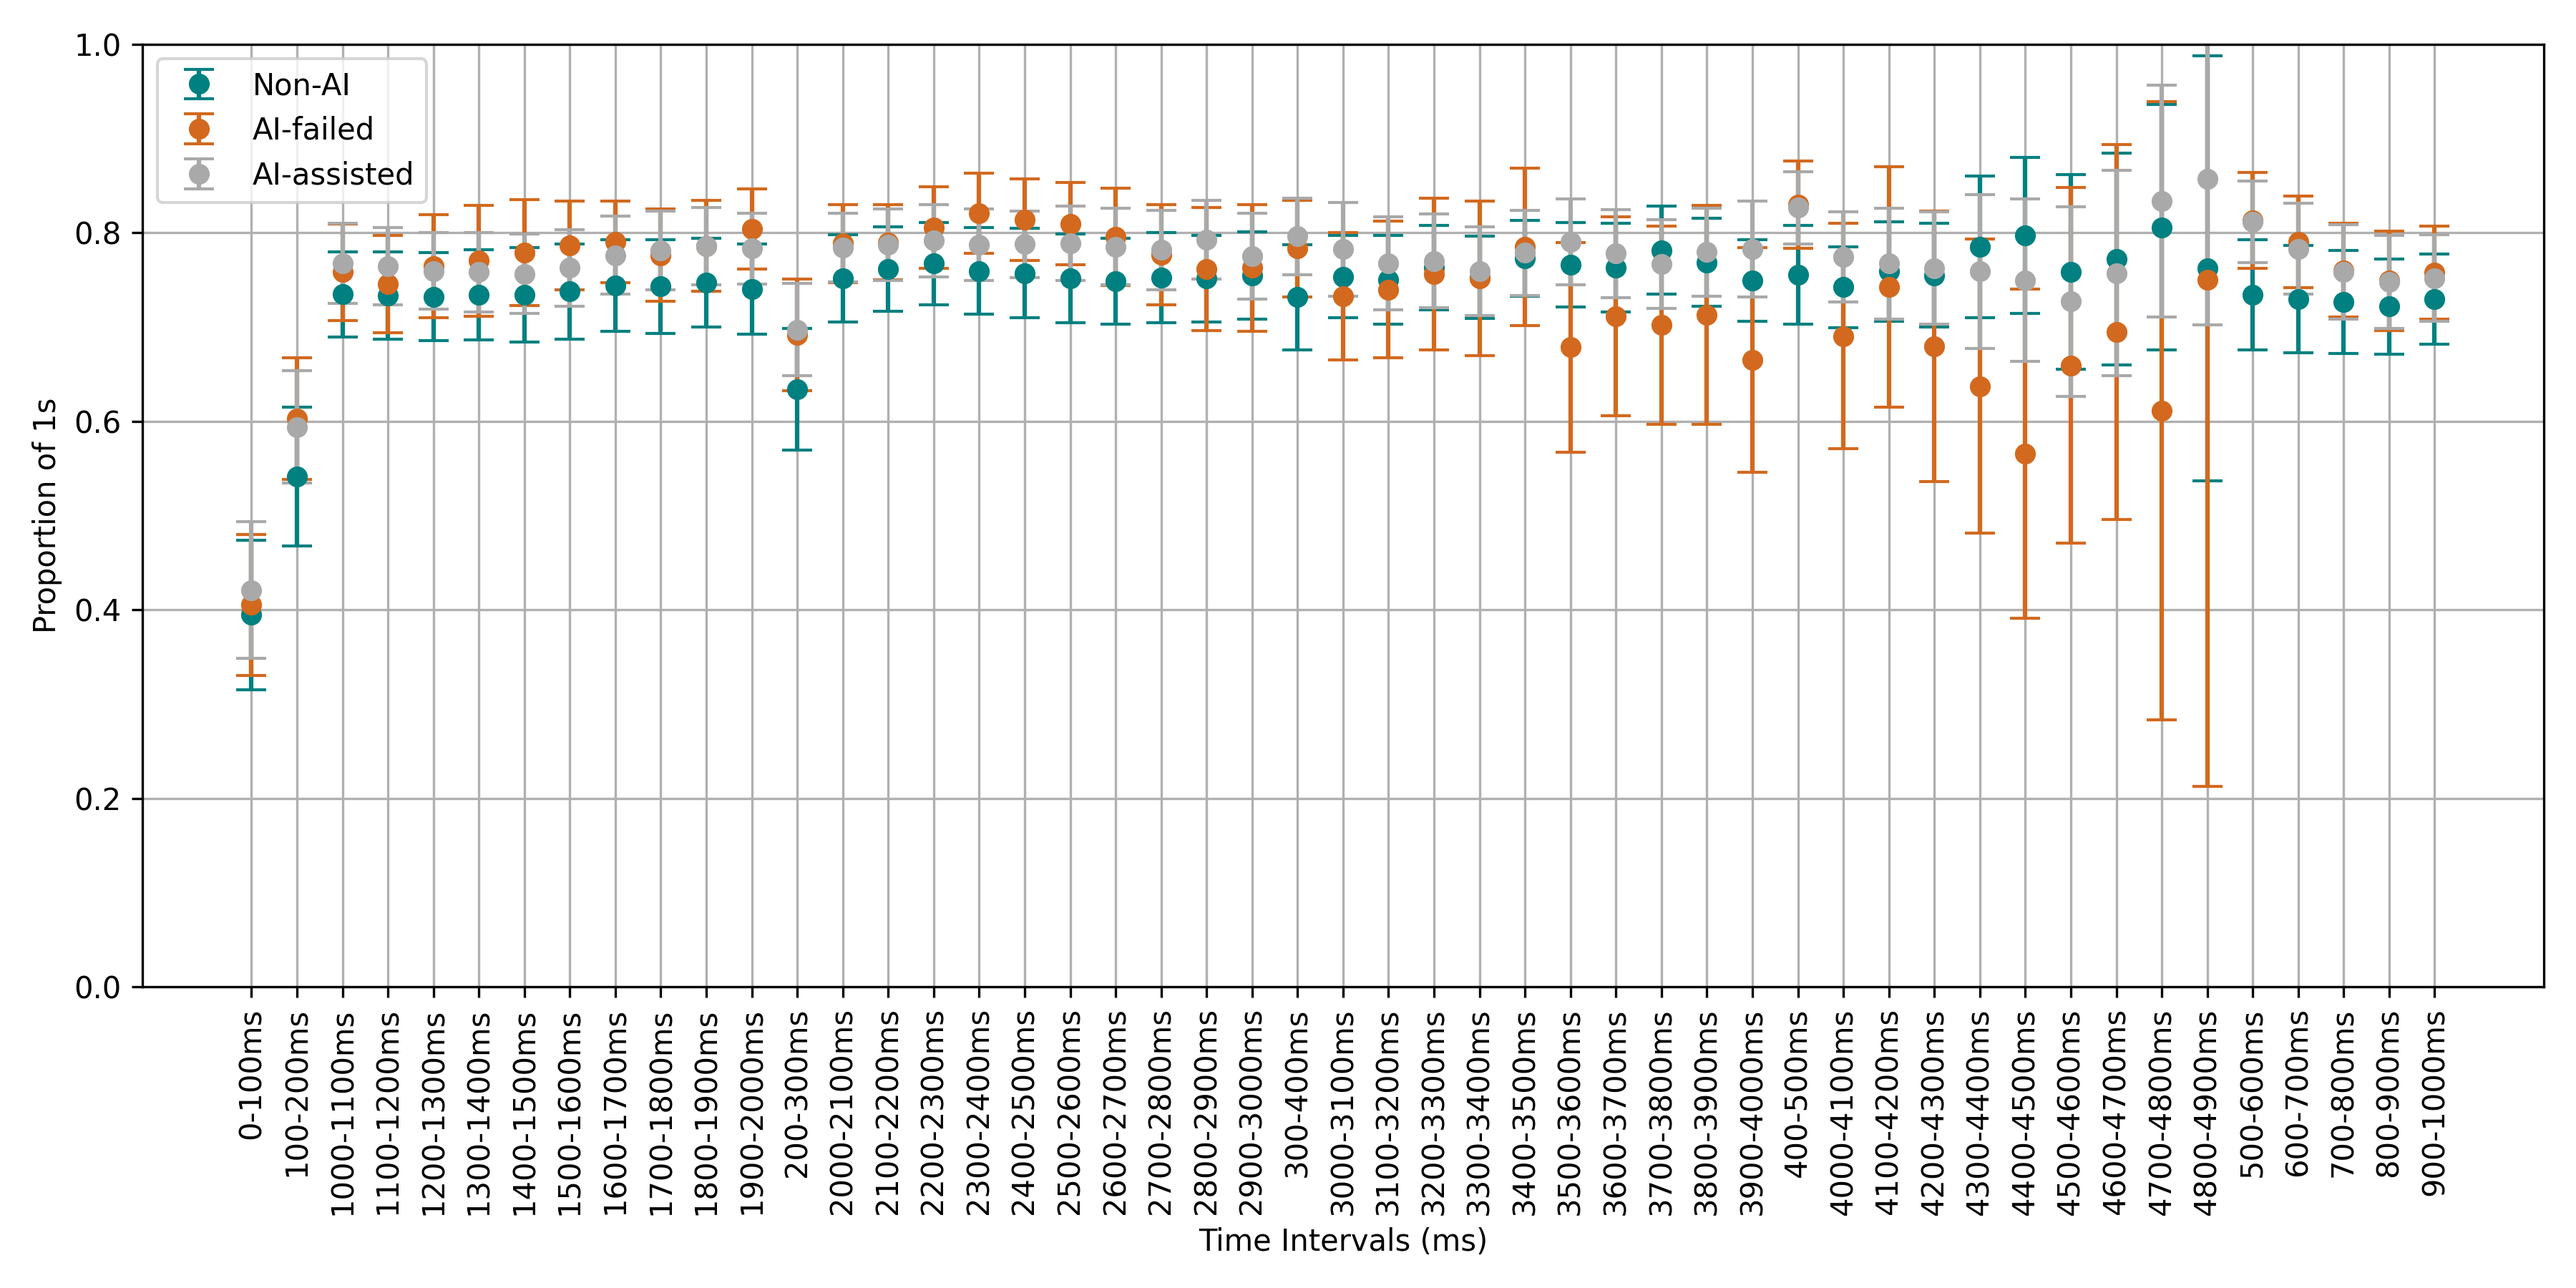
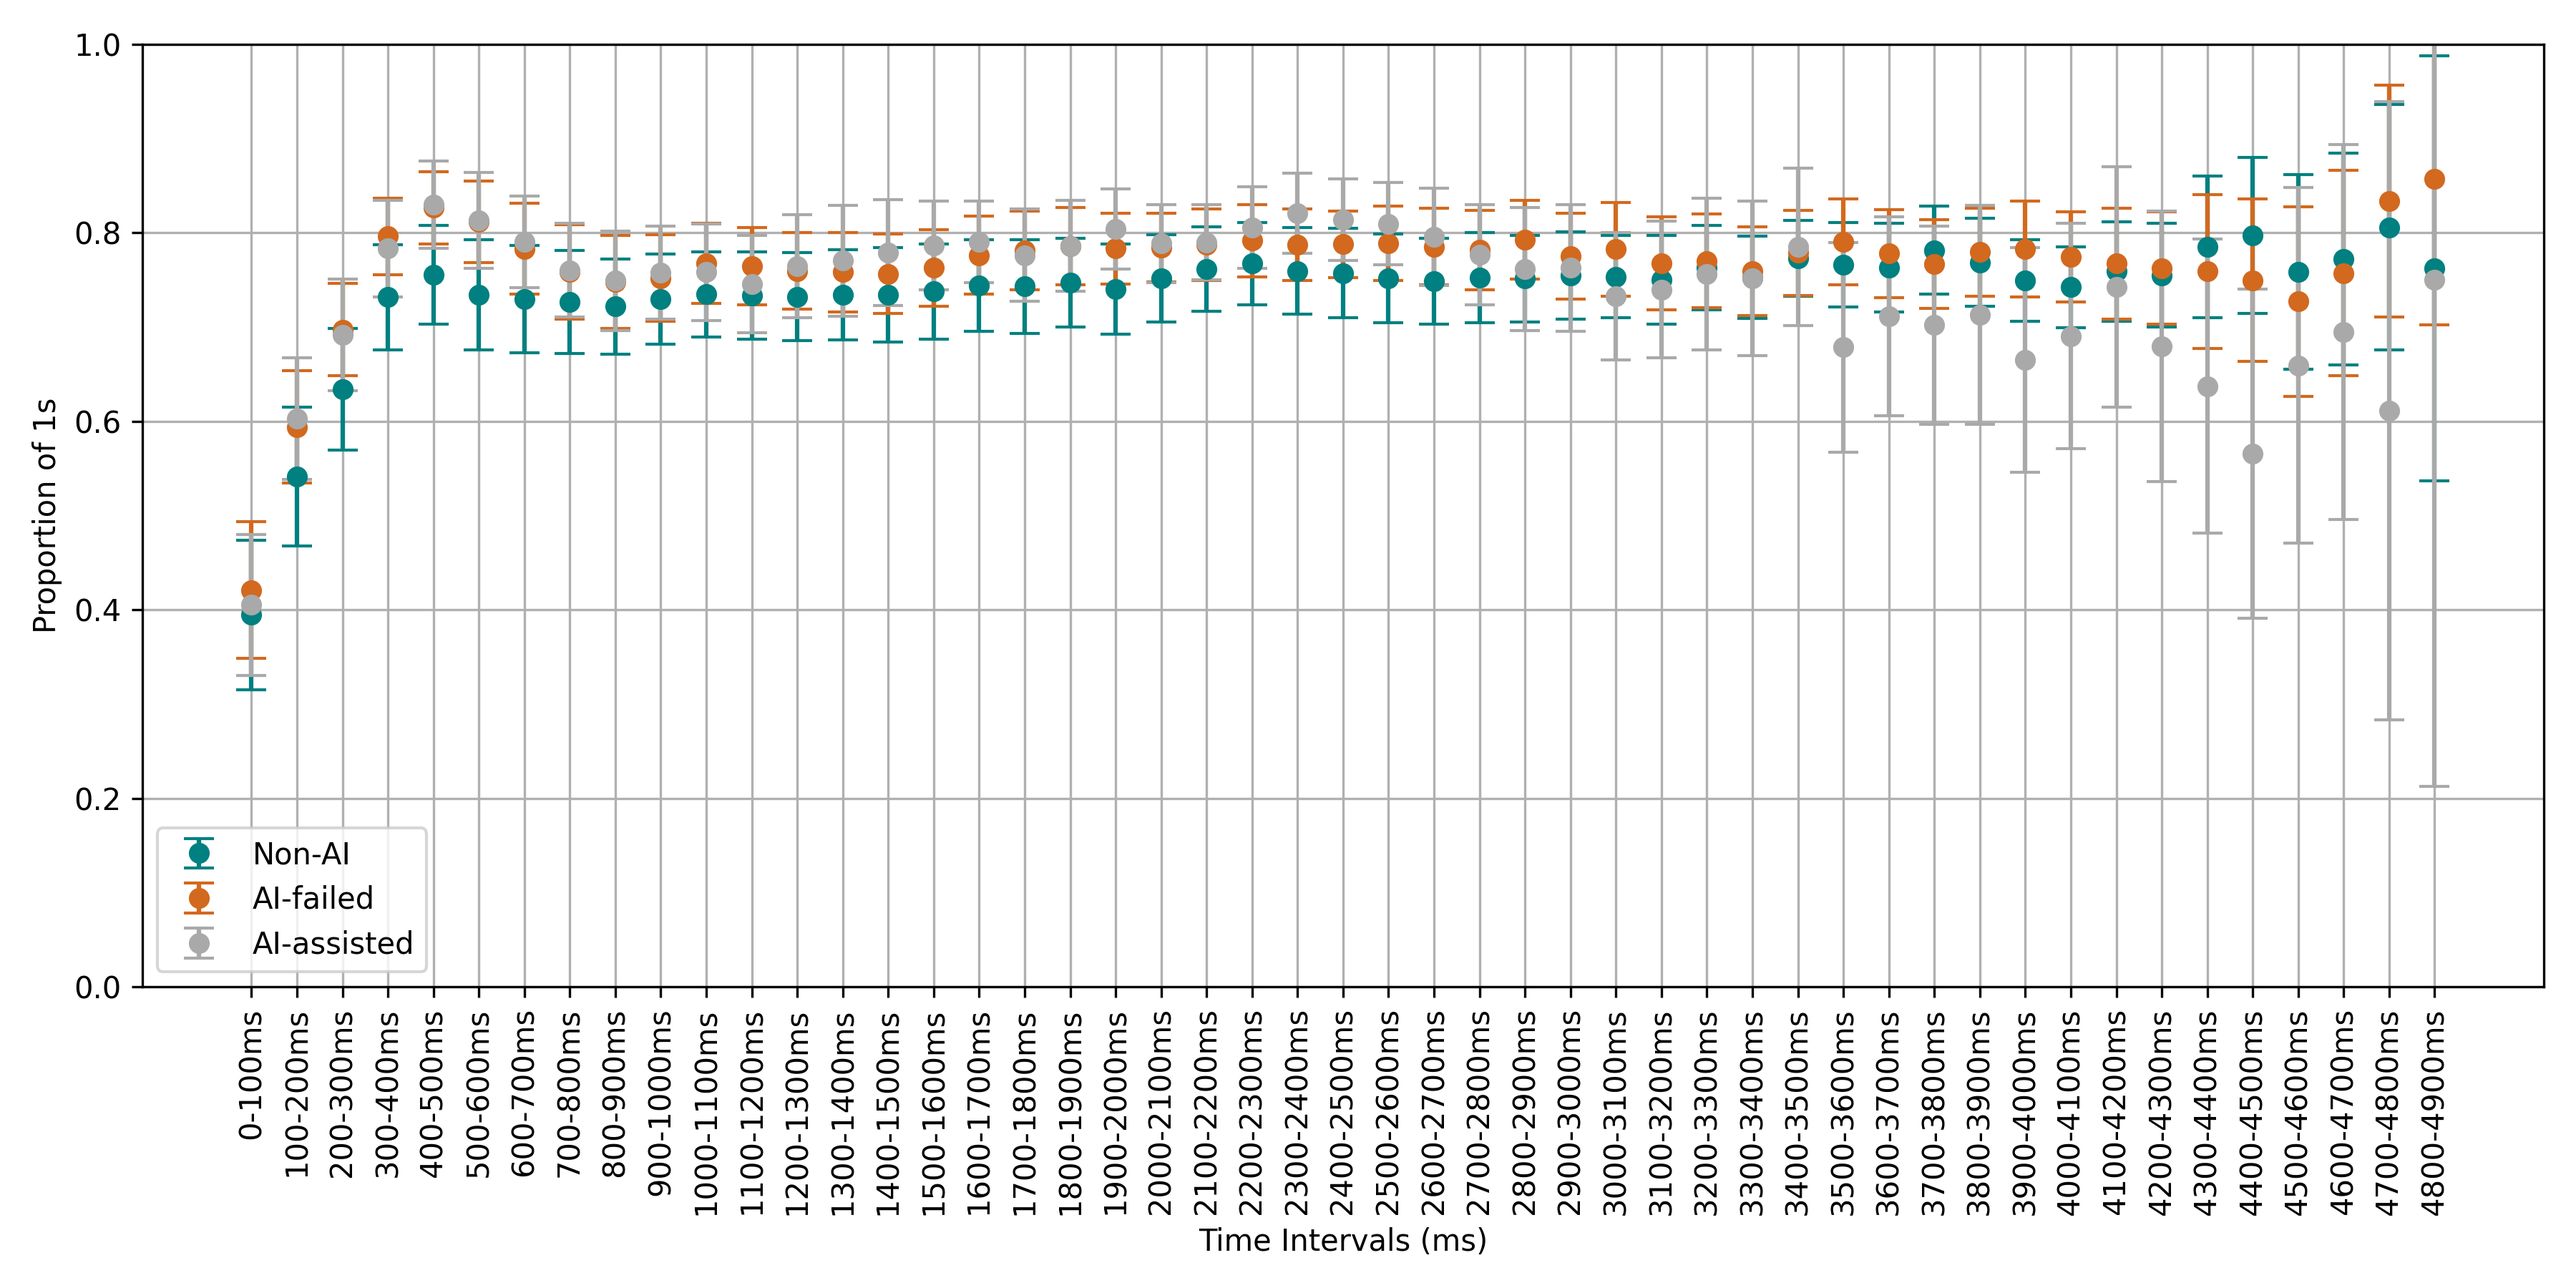
fixed error in figure S3

diff --git a/src/sharedcontrolpaper/force_sensitive_stopping_task_utils.py b/src/sharedcontrolpaper/force_sensitive_stopping_task_utils.py
@@ -12,7 +12,7 @@ NEXT_N_POINTS = 4 # Check if the next N of these points follow the criteria to c
 MAX_PRESSURE = 1 # Pressure when the subject is fully pressing the spacebar
 MIN_PRESSURE = 0 # Pressure when the subject is not pressing the spacebar
 THRESHOLD_REDUCTION = 0.30 # Check for this much reduction in pressure to start checking for SSRT
-INTERVAL_DURATION = 0.1 # Duration of a time interval, in seconds
+INTERVAL_DURATION = 0.1 # Duration of a time interval, in seconds. Pressures at intervals are calculated with this interval duration.
 EXCLUSIONS = {"s027": ["AI", 80, 96]} # Force-sensitive stopping task trial exclusions
 SECONDS_TO_MILLISECONDS = 1000 # Seconds to milliseconds conversion
 SSRT_THRESHOLD_FIGURE_S2 = 600 # To plot figure S2, we excluded outliers above SSRT_THRESHOLD_FIGURE_S2.
@@ -69,7 +69,6 @@ def calculate_intervals(time_stamps, pressures, stop_onset, interval_duration=IN
 
     # Group data by interval and calculate average pressure for each
     pressures_at_intervals = df_before_stop.groupby('interval').apply(calculate_interval_average)
-
     return pressures_at_intervals.tolist()
 
 def is_monotonic_decrease(series):
@@ -170,24 +169,6 @@ def calculate_go_task_metrics(relative_distances, stop_onset_idx, ring_radius_th
 
     return results
 
-def find_first_non_zero_pressure_timestamp(pressures, time_stamps):
-    """Finds the timestamp of the first occurrence of a pressure exceeding the minimum pressure."""
-    first_non_zero_pressure_timestamp = np.nan
-    for i, pressure in enumerate(pressures):
-        if pressure > MIN_PRESSURE:
-            first_non_zero_pressure_timestamp = time_stamps[i]
-            break
-    return first_non_zero_pressure_timestamp
-
-def find_first_full_pressure_timestamp(pressures, time_stamps):
-    """Finds the timestamp of the first occurrence of a pressure at the maximum pressure."""
-    first_full_pressure_timestamp = np.nan
-    for i, pressure in enumerate(pressures):
-        if pressure == MAX_PRESSURE:
-            first_full_pressure_timestamp = time_stamps[i] 
-            break
-    return first_full_pressure_timestamp
-
 def find_stops_before_stop_onset(pressures, stop_onset_idx):
     """Calculates the proportion of times pressure drops to zero before the stop signal."""
     if stop_onset_idx is None or stop_onset_idx <= 0:
@@ -246,10 +227,6 @@ def process_trial_data(data, block):
         # Find the pressures at time intervals until stop onset
         pressures_at_intervals_until_stop_onset = calculate_intervals(time_stamps, pressures, stop_onset)
 
-        # Find the first timestamp with non-zero pressure
-        first_non_zero_pressure_timestamp = find_first_non_zero_pressure_timestamp(pressures, time_stamps)
-        first_full_pressure_timestamp = find_first_full_pressure_timestamp(pressures, time_stamps)
-
         # Find the proportion of stops before the stop onset
         proportion_stops_before_stop_onset = find_stops_before_stop_onset(pressures, stop_onset_idx)
 
@@ -270,8 +247,6 @@ def process_trial_data(data, block):
             'go_task_accuracy_after_stop_onset': results['go_task_accuracy_after_stop_onset'],
             'ball_after_ring_proportion_before_stop_onset': results['ball_after_ring_proportion_before_stop_onset'],
             'pressures_at_intervals_until_stop_onset': pressures_at_intervals_until_stop_onset,
-            'first_non_zero_pressure_timestamp': first_non_zero_pressure_timestamp,
-            'first_full_pressure_timestamp': first_full_pressure_timestamp,
             'proportion_stops_before_stop_onset': proportion_stops_before_stop_onset,
             'ssrt': ssrt,
             'ssrt_without_minimum_ssrt': ssrt_no_min
@@ -532,6 +507,13 @@ def plot_figure_3_and_4(melted_df, summary_df, value_col, ylabel, filename, ylim
     plt.tight_layout()
     plt.savefig(filename, dpi=300)
     plt.show()
+
+def numeric_sort_key(col_name):
+    match = re.match(r'(\d+)-', col_name)  # Extract the number before the hyphen
+    if match:
+        return int(match.group(1))
+    else:
+        return 0
 
 def plot_figure_s1(survey_results, output_filename):
     """Plots the survey correlation matrix efficiently."""

diff --git a/src/sharedcontrolpaper/simple_stop_utils.py b/src/sharedcontrolpaper/simple_stop_utils.py
@@ -53,7 +53,7 @@ def compute_SSRT(df, without_short_ssd_trials=False): #Added SHORT_SSD_LIMIT
 
 
 def analyze_violations(df):
-    """Analyzes violations (trials where Go RT > Stop Fail RT)."""
+    """Analyzes violations (trials where Stop Fail RT > Go RT)."""
     # Create shifted DataFrames for comparison
     df_shifted = df.shift(-1)
 
